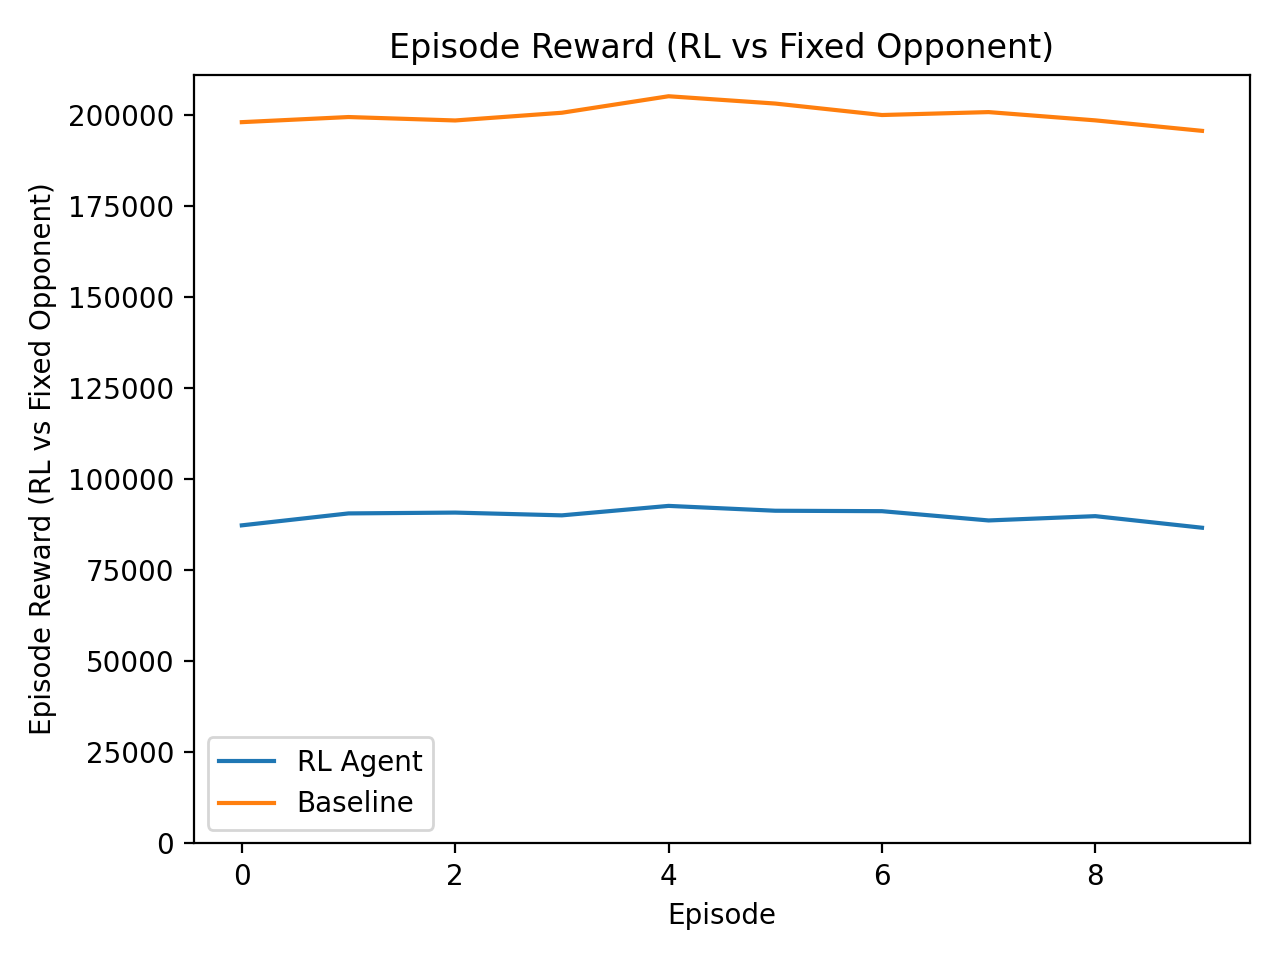
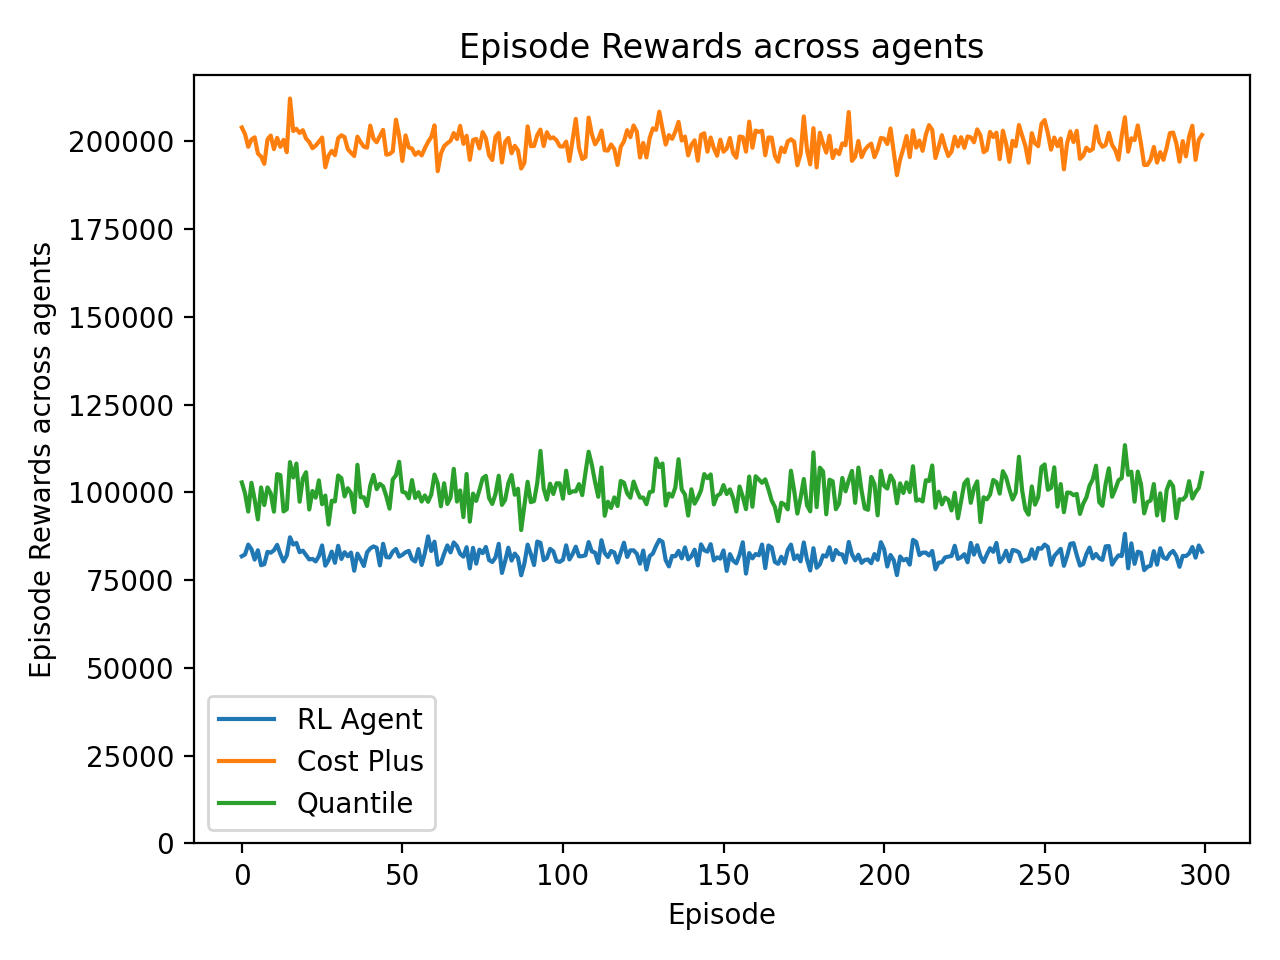
Incorporated additional quantile agent.

diff --git a/shell/poc_controlled_opponents.py b/shell/poc_controlled_opponents.py
@@ -21,6 +21,7 @@ from shell.linear_approximator import (
 )
 from shell.market_model import MarketModel, MarketParams
 from shell.baselines.cost_plus_markup import CostPlusMarkupPolicy
+from shell.baselines.historical_quantile import HistoricalQuantilePolicy
 from shell.agent_interface import Observation
 from shell.multi_agent_metrics import MetricsTracker, export_multi_agent_metrics
 from shell.state_space import State
@@ -45,7 +46,9 @@ class PoCConfig:
     demand_scale: float = 1.0
     verbose: bool = False
 
-    opponent_markup: float = 0.10 
+    opponent_markup: float = 0.10
+
+    opponent_quantile: float = 0.7 
 
     temperature_mode: str = "fixed"
     temperature: float = 1.0
@@ -308,13 +311,21 @@ def run_poc(cfg: PoCConfig) -> None:
     if hasattr(rl_agent, "seed"):
         rl_agent.seed(cfg.seed)
 
-    # Controlled opponent baseline
+    # Controlled opponent baseline (Cost plus marketup)
     marginal_cost = float(market_model.params.marginal_cost)
     opponent_policy = CostPlusMarkupPolicy(
         action_space=action_space,
         marginal_cost=marginal_cost,
         markup=float(cfg.opponent_markup),
         quantity_mw=MAX_BID_QUANTITY_MW,
+    )
+
+    # Controlled opponent baseline (Quantile)
+    opponent_policy_quantile = HistoricalQuantilePolicy(
+        action_space = action_space,
+        lmp_df= lmp_df,
+        quantile = float(cfg.opponent_quantile),
+        quantity_mw = MAX_BID_QUANTITY_MW
     )
 
     if not isinstance(state.raw_state_data, pd.DataFrame):
@@ -326,7 +337,11 @@ def run_poc(cfg: PoCConfig) -> None:
     episode_starts = [fixed_start] * cfg.n_episodes
 
     rewards_ep_rl: List[float] = []
-    rewards_ep_baseline: List[float] = []
+    # baselines
+    rewards_ep_costplus: List[float] = []
+    rewards_ep_quantile: List[float] = []
+
+
     mean_td_ep: List[float] = []
     delta_q_ep: List[float] = []
     entropy_ep: List[float] = []
@@ -356,7 +371,8 @@ def run_poc(cfg: PoCConfig) -> None:
         ent_count = 0
 
         # Baseline
-        cumulative_reward_baseline = 0.0
+        cumulative_reward_costplus = 0.0
+        cumulative_reward_quantile = 0.0
 
         while not done:
             temp = get_episode_temperature(cfg, ep_idx)
@@ -373,12 +389,19 @@ def run_poc(cfg: PoCConfig) -> None:
                 raw_idx, max_quantity=MAX_BID_QUANTITY_MW, max_notional=max_notional
             )
 
+            # Baseline - cost plus markup
             opp_raw_idx = int(opponent_policy.act(step_obs))
             opp_idx, _ = action_space.project_to_feasible(
                 opp_raw_idx, max_quantity=MAX_BID_QUANTITY_MW, max_notional=max_notional
             )
 
-            action_indices = [int(rl_idx), int(opp_idx)]
+
+            # Baseline - quantile
+            opp_raw_idx_quant = int(opponent_policy_quantile.act(step_obs))
+            opp_idx_quant, _ = action_space.project_to_feasible(
+                opp_raw_idx_quant, max_quantity=MAX_BID_QUANTITY_MW, max_notional=max_notional
+            )
+            action_indices = [int(rl_idx), int(opp_idx), int(opp_idx_quant)]
 
             delivery_time = ts + pd.Timedelta(hours=24)
             if delivery_time not in state.raw_state_data.index:
@@ -405,9 +428,9 @@ def run_poc(cfg: PoCConfig) -> None:
                 tie_break_random=True,
             )
             rewards = list(out["rewards"])
-            print(rewards)
             r_rl = float(rewards[0])
-            r_baseline = float(rewards[1])
+            r_costplus = float(rewards[1])
+            r_quantile = float(rewards[2])
 
             q_before = None
             if isinstance(getattr(rl_agent, "Q", None), dict) and state_key in rl_agent.Q:
@@ -445,14 +468,17 @@ def run_poc(cfg: PoCConfig) -> None:
             obs = next_obs
             step_counter += 1
 
-            # Baseline
-            cumulative_reward_baseline += r_baseline
+            # Baseline2
+            cumulative_reward_costplus += r_costplus
+            cumulative_reward_quantile += r_quantile
+
 
             if step_counter >= state.window_size:
                 done = True
 
         rewards_ep_rl.append(float(cumulative_reward_rl))
-        rewards_ep_baseline.append(float(cumulative_reward_baseline))
+        rewards_ep_costplus.append(float(cumulative_reward_costplus))
+        rewards_ep_quantile.append(float(cumulative_reward_quantile))
         mean_td_ep.append(float(np.mean(td_errors)) if len(td_errors) else float("nan"))
         delta_q_ep.append(float(dq_accum / max(step_counter, 1)))
         entropy_ep.append(float(ent_accum / max(ent_count, 1)) if ent_count else float("nan"))
@@ -470,20 +496,20 @@ def run_poc(cfg: PoCConfig) -> None:
         )
 
         if (ep_idx + 1) % 10 == 0:
-            print(f"[PoC] ep {ep_idx+1}/{len(episode_starts)} | reward_rl={cumulative_reward_rl:.3f} | reward_rl={cumulative_reward_baseline:.3f}")
+            print(f"[PoC] ep {ep_idx+1}/{len(episode_starts)} | reward_rl={cumulative_reward_rl:.3f} | reward_costplus={cumulative_reward_costplus:.3f} | reward_quantile={cumulative_reward_quantile:.3f}")
 
     # Save logs + artifacts
     df = pd.DataFrame(logs)
     df.to_csv(os.path.join(cfg.out_dir, "poc_logs.csv"), index=False)
 
     # Create total rewards_epi
-    rewards_ep = {"RL Agent": rewards_ep_rl, "Baseline": rewards_ep_baseline}
+    rewards_ep = {"RL Agent": rewards_ep_rl, "Cost Plus": rewards_ep_costplus, "Quantile": rewards_ep_quantile}
 
     with open(os.path.join(cfg.out_dir, "poc_q_table.pkl"), "wb") as f:
         pickle.dump(rl_agent.Q, f)
 
     # 4 plots
-    save_plot_rewards(rewards_ep, "Episode Reward (RL vs Fixed Opponent)", os.path.join(cfg.out_dir, "01_reward.png"))
+    save_plot_rewards(rewards_ep, "Episode Rewards across agents", os.path.join(cfg.out_dir, "01_reward.png"))
     save_plot(mean_td_ep, "Mean TD Error (episode)", os.path.join(cfg.out_dir, "02_mean_td_error.png"))
     save_plot(delta_q_ep, "Mean |ΔQ| per step (episode)", os.path.join(cfg.out_dir, "03_delta_q.png"))
     save_plot(entropy_ep, "Policy Entropy (episode)", os.path.join(cfg.out_dir, "04_entropy.png"))
@@ -496,7 +522,7 @@ def run_poc(cfg: PoCConfig) -> None:
 
 if __name__ == "__main__":
     cfg = PoCConfig(
-        n_episodes=10,        
+        n_episodes=300,        
         seed=0,
         opponent_markup=0.10,  
         demand_scale=1.0,
